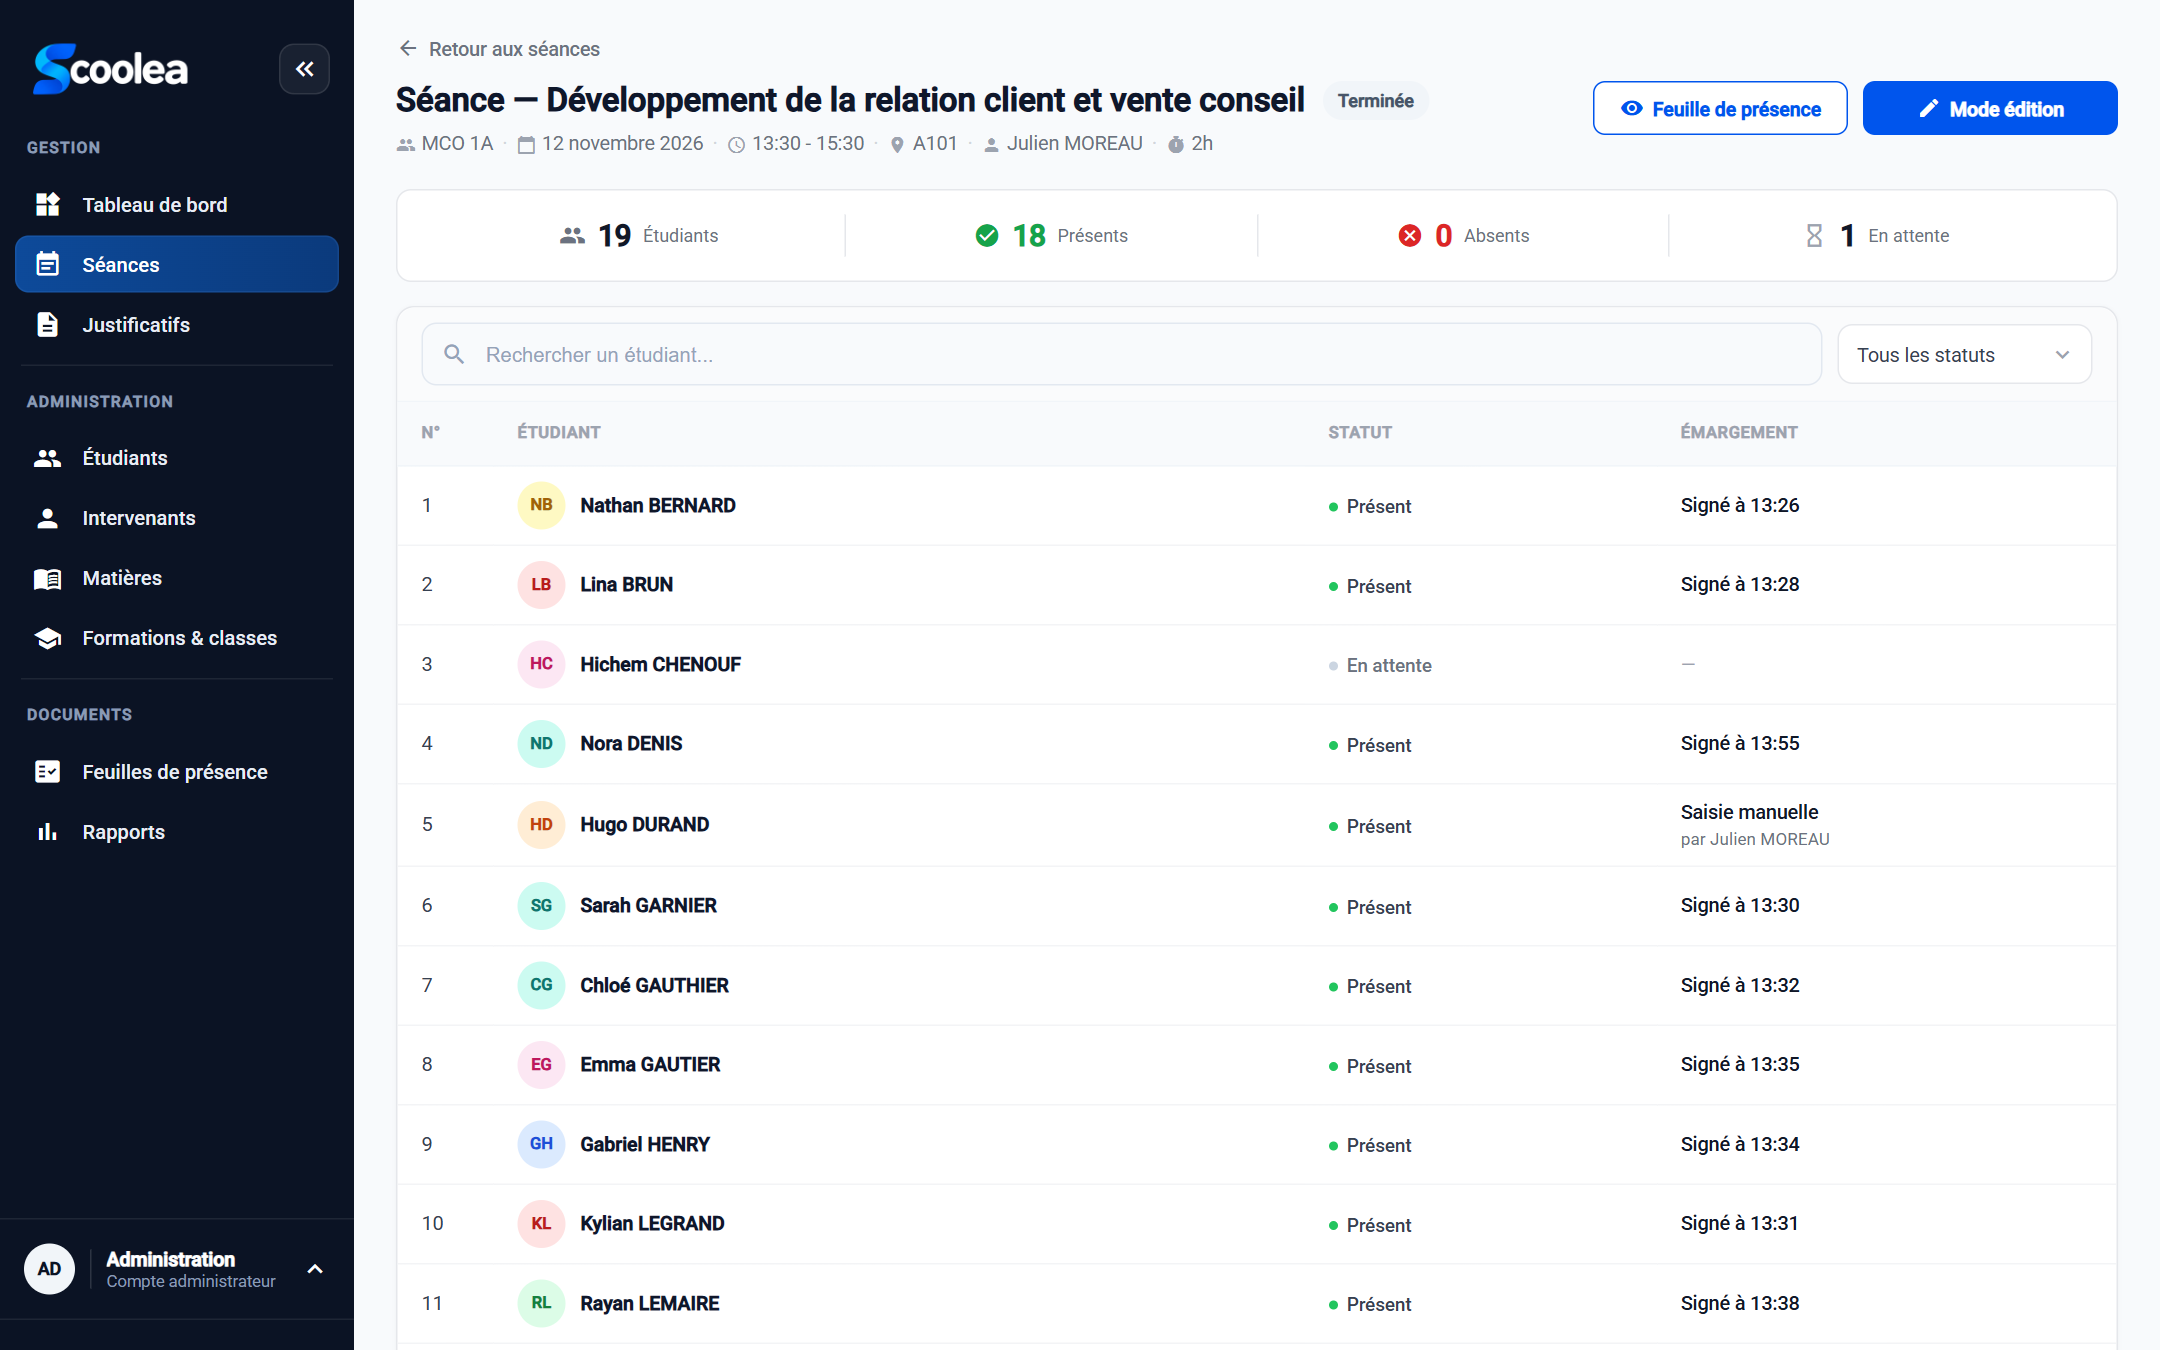
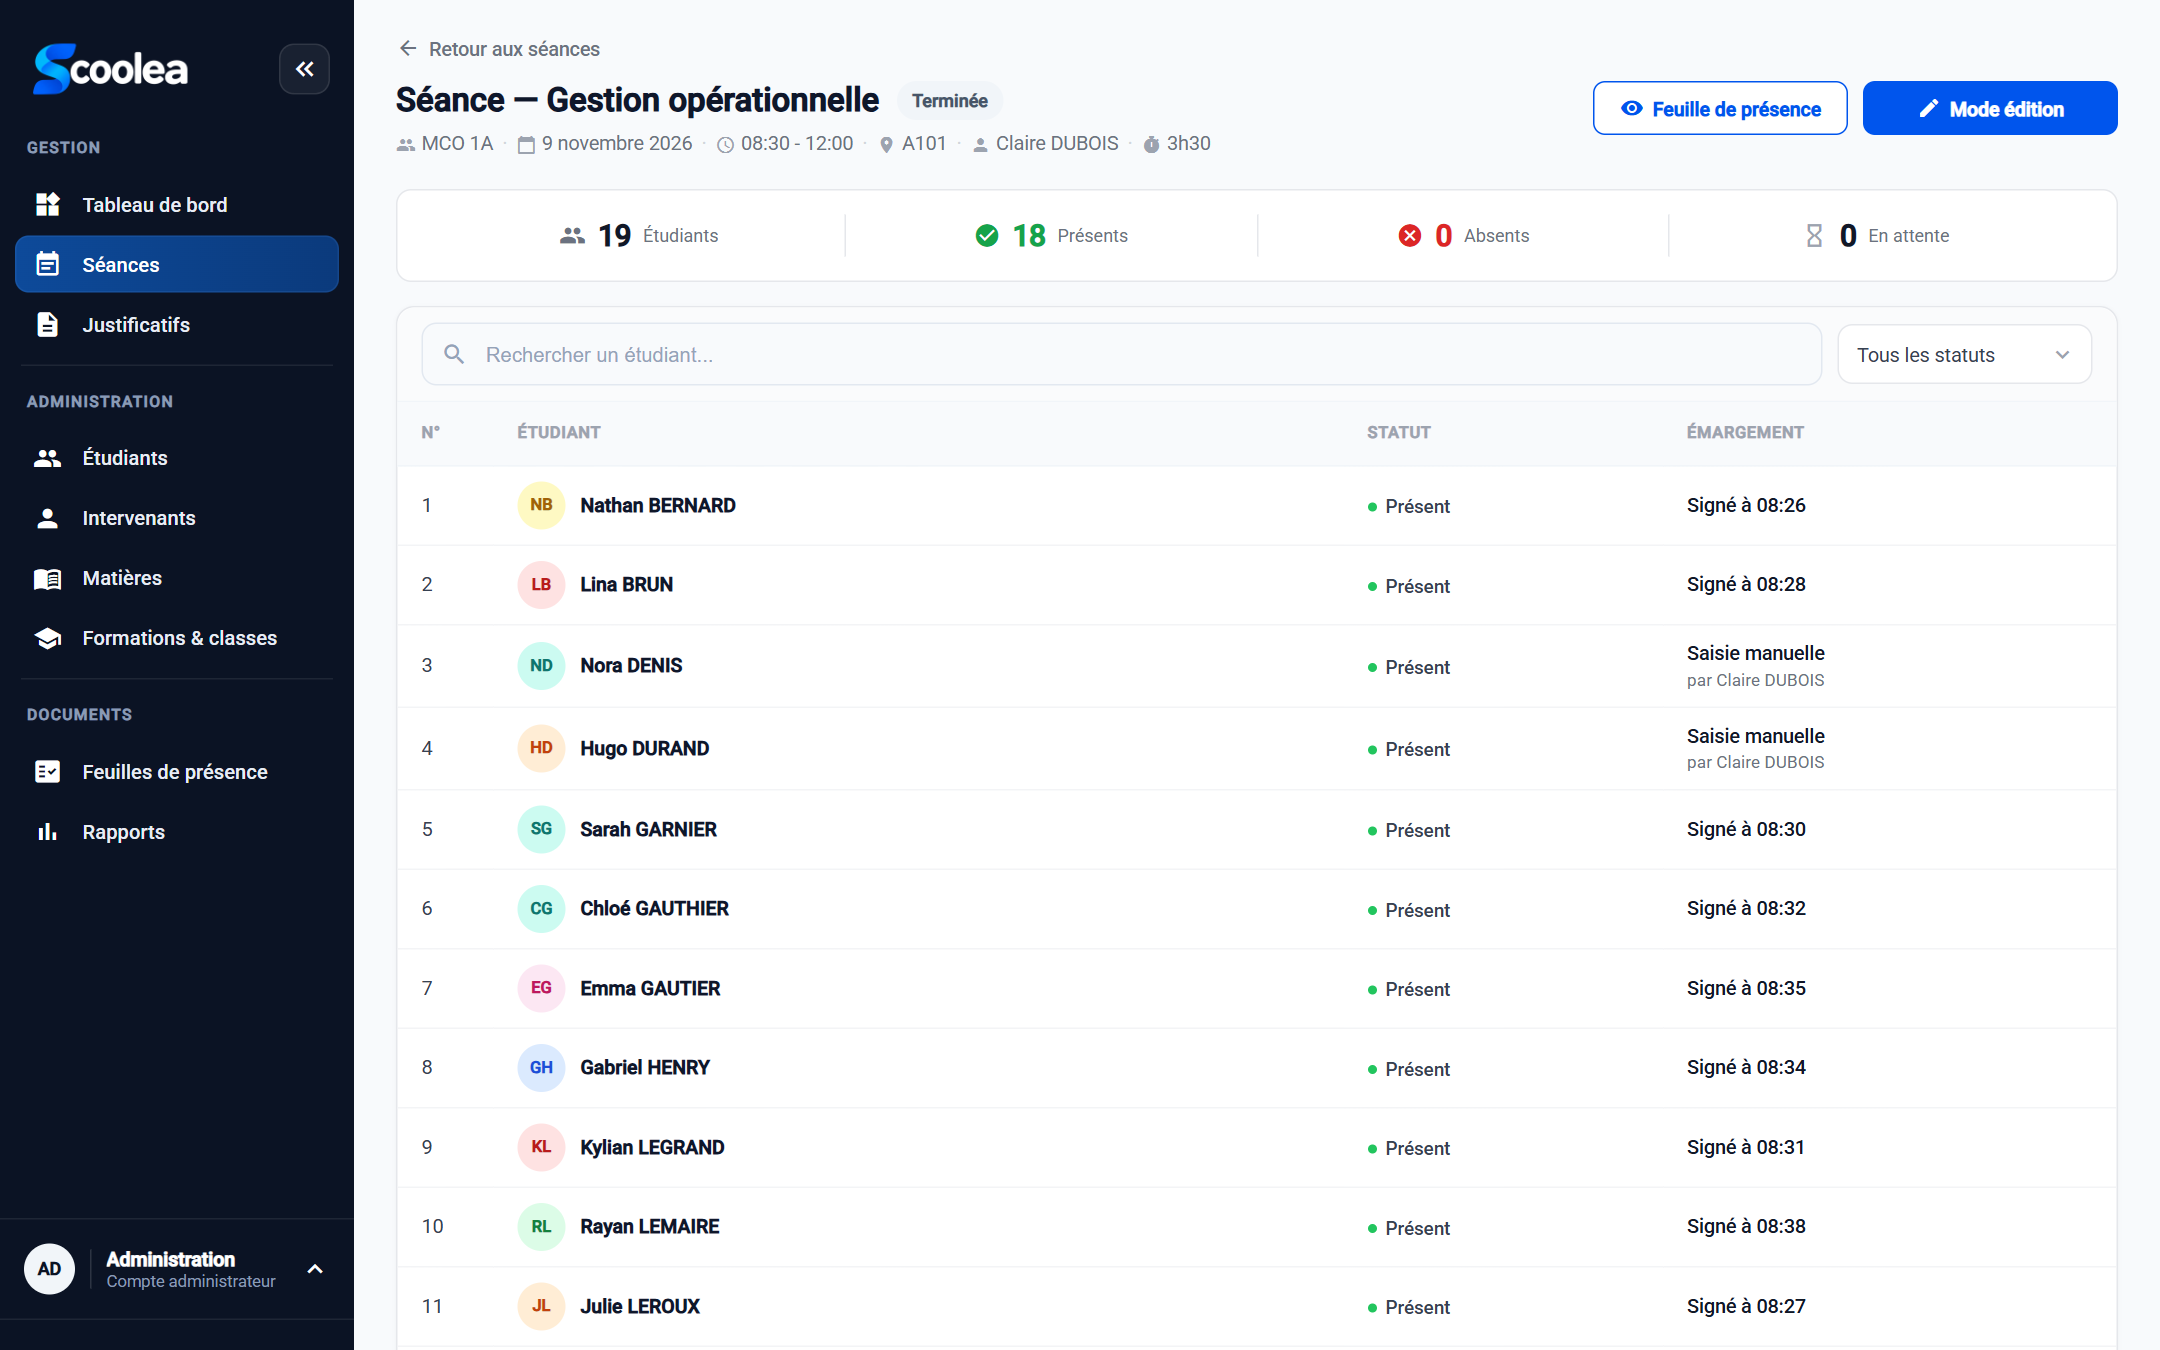
Site vitrine : blocs Planning et Feuilles d'émargement, captures anonymisées, en-tête et contact retravaillés

diff --git a/public/index.html b/public/index.html
@@ -10,13 +10,13 @@
   <meta property="og:title" content="Scoolea — La gestion des présences, simplement" />
   <meta property="og:description" content="Séances, émargement numérique, absences, justificatifs, feuilles de présence et rapports d'assiduité, au même endroit." />
   <meta property="og:url" content="https://scoolea.com/" />
-  <meta property="og:image" content="https://scoolea.com/assets/img/capture-tableau-de-bord.png" />
+  <meta property="og:image" content="https://scoolea.com/assets/img/capture-tableau-de-bord.png?v=1573aad0" />
   <meta name="theme-color" content="#0f1e3d" />
   <link rel="icon" href="/favicon.ico" sizes="any" />
   <link rel="icon" type="image/png" sizes="32x32" href="/favicon-32x32.png" />
   <link rel="apple-touch-icon" href="/apple-touch-icon.png" />
   <link rel="preload" href="/assets/fonts/inter-latin-wght-normal.woff2" as="font" type="font/woff2" crossorigin />
-  <link rel="stylesheet" href="/assets/css/site.css?v=dfc4b432" />
+  <link rel="stylesheet" href="/assets/css/site.css?v=2644e559" />
 </head>
 <body>
 
@@ -26,7 +26,7 @@
 <header class="site-header" id="haut">
   <div class="container header-inner">
     <a class="brand-link" href="/" aria-label="Scoolea, accueil">
-      <img src="/assets/img/logo-dark.png" alt="Scoolea" width="97" height="32" />
+      <img src="/assets/img/logo-dark.png?v=4f0b18e6" alt="Scoolea" width="97" height="32" />
     </a>
     <nav class="main-nav" aria-label="Navigation principale">
       <a href="#fonctionnalites">Fonctionnalités</a>
@@ -60,7 +60,7 @@
   <section class="hero">
     <div class="container hero-grid">
       <div>
-        <span class="eyebrow hero-eyebrow">Gestion des présences et suivi administratif</span>
+        <span class="eyebrow hero-eyebrow">Gestion des présences, feuilles de présence et suivi administratif</span>
         <h1>La gestion des présences <br class="br-desk" />de vos formations, <br class="br-desk" /><span class="accent">simplement.</span></h1>
         <p class="hero-lead">
           Séances, émargement par QR code, absences, justificatifs et feuilles de présence : Scoolea réunit
@@ -79,11 +79,11 @@
       <div class="hero-visual">
         <div class="browser">
           <div class="browser-bar"><i></i><i></i><i></i><span class="url">app.scoolea.com</span></div>
-          <img src="/assets/img/capture-tableau-de-bord.png" width="1440" height="900"
+          <img src="/assets/img/capture-tableau-de-bord.png?v=1573aad0" width="1440" height="900"
                alt="Tableau de bord administrateur de Scoolea : séances du jour, présences et justificatifs en attente" />
         </div>
         <div class="phone">
-          <img src="/assets/img/capture-mobile.png" width="390" height="844"
+          <img src="/assets/img/capture-mobile.png?v=f8ba8f59" width="390" height="844"
                alt="Écran d'émargement sur téléphone : l'étudiant signe au doigt" />
         </div>
       </div>
@@ -205,6 +205,42 @@
     <div class="container">
       <div class="showcase">
         <div class="showcase-text">
+          <span class="eyebrow">Planning</span>
+          <h3>Toutes les séances de la semaine, en un coup d'œil</h3>
+          <p>Planifiez les séances par classe, matière et intervenant, puis suivez-les dans une vue jour, semaine ou liste.</p>
+          <ul class="check-list">
+            <li><svg viewBox="0 0 24 24" fill="none" stroke="currentColor" stroke-width="2.2" stroke-linecap="round" stroke-linejoin="round"><path d="M20 6 9 17l-5-5"/></svg><span>Vues jour, semaine et liste</span></li>
+            <li><svg viewBox="0 0 24 24" fill="none" stroke="currentColor" stroke-width="2.2" stroke-linecap="round" stroke-linejoin="round"><path d="M20 6 9 17l-5-5"/></svg><span>Import du planning depuis Excel</span></li>
+            <li><svg viewBox="0 0 24 24" fill="none" stroke="currentColor" stroke-width="2.2" stroke-linecap="round" stroke-linejoin="round"><path d="M20 6 9 17l-5-5"/></svg><span>Séances annulées signalées, et rétablies si besoin</span></li>
+          </ul>
+        </div>
+        <div class="browser">
+          <div class="browser-bar"><i></i><i></i><i></i><span class="url">app.scoolea.com</span></div>
+          <img src="/assets/img/capture-planning.png?v=83cdadb2" width="1600" height="1000" loading="lazy"
+               alt="Planning hebdomadaire des séances dans Scoolea : matières, classes et intervenants" />
+        </div>
+      </div>
+
+      <div class="showcase reverse">
+        <div class="showcase-text">
+          <span class="eyebrow">Feuilles d'émargement</span>
+          <h3>Des feuilles d'émargement signées, prêtes à archiver</h3>
+          <p>À la fin de chaque séance, Scoolea génère la feuille d'émargement en PDF, avec la signature de chaque étudiant.</p>
+          <ul class="check-list">
+            <li><svg viewBox="0 0 24 24" fill="none" stroke="currentColor" stroke-width="2.2" stroke-linecap="round" stroke-linejoin="round"><path d="M20 6 9 17l-5-5"/></svg><span>Signatures des étudiants et de l'intervenant</span></li>
+            <li><svg viewBox="0 0 24 24" fill="none" stroke="currentColor" stroke-width="2.2" stroke-linecap="round" stroke-linejoin="round"><path d="M20 6 9 17l-5-5"/></svg><span>Feuilles par séance, par journée ou par période</span></li>
+            <li><svg viewBox="0 0 24 24" fill="none" stroke="currentColor" stroke-width="2.2" stroke-linecap="round" stroke-linejoin="round"><path d="M20 6 9 17l-5-5"/></svg><span>Relevés d'assiduité et attestations par étudiant</span></li>
+          </ul>
+        </div>
+        <figure class="paper">
+          <span class="paper-badge">PDF</span>
+          <img src="/assets/img/capture-feuille.png?v=51589273" width="1256" height="1363" loading="lazy"
+               alt="Feuille d'émargement générée par Scoolea : informations de la séance et signature de chaque étudiant" />
+        </figure>
+      </div>
+
+      <div class="showcase">
+        <div class="showcase-text">
           <span class="eyebrow">Chaque séance</span>
           <h3>Les présences d'une séance, d'un seul coup d'œil</h3>
           <p>Pour chaque séance, l'administration et l'intervenant voient la liste des étudiants, leur statut et leur signature.</p>
@@ -216,7 +252,7 @@
         </div>
         <div class="browser">
           <div class="browser-bar"><i></i><i></i><i></i><span class="url">app.scoolea.com</span></div>
-          <img src="/assets/img/capture-seance.png" width="1440" height="900" loading="lazy"
+          <img src="/assets/img/capture-seance.png?v=21dfae31" width="1440" height="900" loading="lazy"
                alt="Détail d'une séance dans Scoolea : liste des étudiants, statut de présence et signatures" />
         </div>
       </div>
@@ -234,7 +270,7 @@
         </div>
         <div class="browser">
           <div class="browser-bar"><i></i><i></i><i></i><span class="url">app.scoolea.com</span></div>
-          <img src="/assets/img/capture-justificatifs.png" width="1440" height="900" loading="lazy"
+          <img src="/assets/img/capture-justificatifs.png?v=dd0e85b9" width="1440" height="900" loading="lazy"
                alt="Liste des justificatifs d'absence dans Scoolea, avec leur statut et les actions Accepter ou Refuser" />
         </div>
       </div>
@@ -438,7 +474,7 @@
   <div class="container">
     <div class="footer-top">
       <div class="footer-brand">
-        <img src="/assets/img/logo-light.png" alt="Scoolea" width="91" height="30" loading="lazy" />
+        <img src="/assets/img/logo-light.png?v=7f0f0a9f" alt="Scoolea" width="91" height="30" loading="lazy" />
         <p>La gestion des présences des écoles, CFA et organismes de formation, simplement.</p>
       </div>
       <nav class="footer-nav" aria-label="Pied de page">
@@ -464,6 +500,6 @@
   <a class="btn btn-primary" href="#contact" tabindex="-1">Demander une démonstration</a>
 </div>
 
-<script src="/assets/js/site.js?v=9b9dd7e7" defer></script>
+<script src="/assets/js/site.js?v=3527d922" defer></script>
 </body>
 </html>

diff --git a/public/confidentialite.html b/public/confidentialite.html
@@ -10,7 +10,7 @@
   <link rel="icon" href="/favicon.ico" sizes="any" />
   <link rel="icon" type="image/png" sizes="32x32" href="/favicon-32x32.png" />
   <link rel="apple-touch-icon" href="/apple-touch-icon.png" />
-  <link rel="stylesheet" href="/assets/css/site.css?v=dfc4b432" />
+  <link rel="stylesheet" href="/assets/css/site.css?v=2644e559" />
 </head>
 <body>
 
@@ -20,7 +20,7 @@
 <header class="site-header" id="haut">
   <div class="container header-inner">
     <a class="brand-link" href="/" aria-label="Scoolea, accueil">
-      <img src="/assets/img/logo-dark.png" alt="Scoolea" width="97" height="32" />
+      <img src="/assets/img/logo-dark.png?v=4f0b18e6" alt="Scoolea" width="97" height="32" />
     </a>
     <nav class="main-nav" aria-label="Navigation principale">
       <a href="/#fonctionnalites">Fonctionnalités</a>
@@ -89,7 +89,7 @@
   <div class="container">
     <div class="footer-top">
       <div class="footer-brand">
-        <img src="/assets/img/logo-light.png" alt="Scoolea" width="91" height="30" loading="lazy" />
+        <img src="/assets/img/logo-light.png?v=7f0f0a9f" alt="Scoolea" width="91" height="30" loading="lazy" />
         <p>La gestion des présences des écoles, CFA et organismes de formation, simplement.</p>
       </div>
       <nav class="footer-nav" aria-label="Pied de page">
@@ -110,6 +110,6 @@
   </div>
 </footer>
 
-<script src="/assets/js/site.js?v=9b9dd7e7" defer></script>
+<script src="/assets/js/site.js?v=3527d922" defer></script>
 </body>
 </html>

diff --git a/public/404.html b/public/404.html
@@ -9,7 +9,7 @@
   <link rel="icon" href="/favicon.ico" sizes="any" />
   <link rel="icon" type="image/png" sizes="32x32" href="/favicon-32x32.png" />
   <link rel="apple-touch-icon" href="/apple-touch-icon.png" />
-  <link rel="stylesheet" href="/assets/css/site.css?v=dfc4b432" />
+  <link rel="stylesheet" href="/assets/css/site.css?v=2644e559" />
 </head>
 <body>
 
@@ -19,7 +19,7 @@
 <header class="site-header" id="haut">
   <div class="container header-inner">
     <a class="brand-link" href="/" aria-label="Scoolea, accueil">
-      <img src="/assets/img/logo-dark.png" alt="Scoolea" width="97" height="32" />
+      <img src="/assets/img/logo-dark.png?v=4f0b18e6" alt="Scoolea" width="97" height="32" />
     </a>
     <nav class="main-nav" aria-label="Navigation principale">
       <a href="/#fonctionnalites">Fonctionnalités</a>
@@ -68,7 +68,7 @@
   <div class="container">
     <div class="footer-top">
       <div class="footer-brand">
-        <img src="/assets/img/logo-light.png" alt="Scoolea" width="91" height="30" loading="lazy" />
+        <img src="/assets/img/logo-light.png?v=7f0f0a9f" alt="Scoolea" width="91" height="30" loading="lazy" />
         <p>La gestion des présences des écoles, CFA et organismes de formation, simplement.</p>
       </div>
       <nav class="footer-nav" aria-label="Pied de page">
@@ -89,6 +89,6 @@
   </div>
 </footer>
 
-<script src="/assets/js/site.js?v=9b9dd7e7" defer></script>
+<script src="/assets/js/site.js?v=3527d922" defer></script>
 </body>
 </html>

diff --git a/public/assets/css/site.css b/public/assets/css/site.css
@@ -248,6 +248,22 @@ p { margin: 0; }
 .showcase-text .check-list { margin-top: 24px; }
 .showcase-text .check-list svg { color: var(--brand); }
 
+/* Feuille d'émargement présentée comme un document */
+.paper {
+  position: relative; margin: 0; padding: 28px 28px 0; background: #fff; border: 1px solid var(--line);
+  border-radius: 6px; box-shadow: 0 24px 48px -24px rgba(15, 23, 42, .35), 0 2px 6px rgba(15, 23, 42, .06);
+  max-height: 560px; overflow: hidden;
+}
+.paper img { display: block; width: 100%; height: auto; }
+.paper::after {
+  content: ''; position: absolute; left: 0; right: 0; bottom: 0; height: 90px;
+  background: linear-gradient(rgba(255, 255, 255, 0), #fff);
+}
+.paper-badge {
+  position: absolute; top: 12px; right: 12px; z-index: 1; font-size: 11px; font-weight: 700; letter-spacing: .06em;
+  color: #b91c1c; background: #fef2f2; border: 1px solid #fecaca; border-radius: 6px; padding: 3px 8px;
+}
+
 /* Profils */
 .role { display: flex; flex-direction: column; }
 .role-head { display: flex; flex-direction: column; align-items: flex-start; gap: 18px; margin-bottom: 18px; }
@@ -504,7 +520,7 @@ p { margin: 0; }
   .check-list li { font-size: 14.5px; }
 
   /* Captures de l'application : illisibles sur petit écran, on garde le texte */
-  .showcase > .browser { display: none; }
+  .showcase > .browser, .showcase > .paper { display: none; }
   .showcase + .showcase { margin-top: 48px; }
 
   /* Barre « Demander une démonstration » fixe en bas de l'écran */

diff --git a/public/assets/js/site.js b/public/assets/js/site.js
@@ -20,7 +20,7 @@
     document.documentElement.classList.add('anim');
     var groups = [
       '.section-head', '.compare-col', '.grid-3 > *', '.steps > .step', '.showcase-text',
-      '.showcase > .browser', '.sec-item', '.price-card', '.contact-card', '.audience-item'
+      '.showcase > .browser', '.showcase > .paper', '.sec-item', '.price-card', '.contact-card', '.audience-item'
     ];
     var targets = [];
     groups.forEach(function (sel) {

diff --git a/outils/versionner-assets.py b/outils/versionner-assets.py
@@ -1,21 +1,34 @@
-"""Ajoute aux liens CSS/JS des pages une empreinte du contenu (?v=xxxxxxxx).
+"""Ajoute aux liens vers /assets/ des pages une empreinte du contenu (?v=xxxxxxxx).
 
-Les fichiers de /assets/ sont mis en cache 7 jours par les navigateurs (voir public/_headers) :
-sans cette empreinte, un visiteur verrait une nouvelle page avec l'ancienne feuille de style.
+Les fichiers de /assets/ (feuille de style, script, images) sont mis en cache 7 jours par les
+navigateurs (voir public/_headers) : sans cette empreinte, un visiteur verrait une nouvelle page
+avec l'ancienne feuille de style ou d'anciennes captures d'écran.
 À lancer avant chaque déploiement :  python outils/versionner-assets.py
 """
 import hashlib, pathlib, re
 
 PUBLIC = pathlib.Path(__file__).resolve().parent.parent / 'public'
-ASSETS = ['/assets/css/site.css', '/assets/js/site.js']
+# Tout lien local vers /assets/… (src, href, content), avec ou sans empreinte existante
+# Les polices sont exclues : la feuille de style les charge sans empreinte, et le préchargement
+# dans la page doit utiliser exactement la même adresse pour ne pas télécharger la police deux fois.
+LIEN = re.compile(r"""(/assets/[A-Za-z0-9_./-]+\.(?:css|js|png|jpg|jpeg|webp|svg))(\?v=[0-9a-f]+)?(?=["'\s)])""")
 
-empreintes = {a: hashlib.sha256((PUBLIC / a.lstrip('/')).read_bytes()).hexdigest()[:8] for a in ASSETS}
+cache = {}
+def empreinte(chemin):
+    if chemin not in cache:
+        fichier = PUBLIC / chemin.lstrip('/')
+        cache[chemin] = hashlib.sha256(fichier.read_bytes()).hexdigest()[:8] if fichier.is_file() else None
+    return cache[chemin]
+
+def remplacer(m):
+    h = empreinte(m.group(1))
+    return f'{m.group(1)}?v={h}' if h else m.group(0)
+
 for page in sorted(PUBLIC.glob('*.html')):
     texte = page.read_text(encoding='utf-8')
-    nouveau = texte
-    for a, h in empreintes.items():
-        nouveau = re.sub(re.escape(a) + r'(\?v=[0-9a-f]+)?"', f'{a}?v={h}"', nouveau)
+    nouveau = LIEN.sub(remplacer, texte)
     if nouveau != texte:
         page.write_text(nouveau, encoding='utf-8', newline='')
         print('mis à jour :', page.name)
-print('empreintes :', empreintes)
+manquants = [c for c, h in cache.items() if h is None]
+print(len(cache), 'fichiers versionnés' + (' | introuvables : ' + ', '.join(manquants) if manquants else ''))
